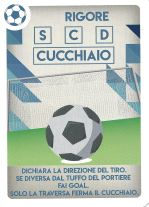
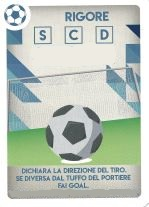
commenti e carte modificate

Changed region(s): [[0.2148, 0.2029, 0.7785, 0.3188], [0.0537, 0.8986, 0.9128, 0.9565]]

diff --git a/Progetto_GiocoDiCarte/src/classi/Partita.java b/Progetto_GiocoDiCarte/src/classi/Partita.java
@@ -96,71 +96,88 @@ public class Partita extends Gara
 	{
 		//il difensore pesca una carta (una carta viene pescata indipendemente se subisce goal oppure no)
 		dif.getMano().add(this.carte.pesca());
+		//il numero di carte pescate sarà sempre almeno una
 		cartePescate = 1;
-		//se la carta giocata è l'attaccante
+		
+		//se il giocatore offensivo ha giocato l'attaccante, il difensore potrà difendersi con il difensore e con il difensore roccia
 		if(cartaAtt.equals(Carta.ATTACCANTE)) 
 		{
-			
+			//se il giocatore difendente non ha giocato il difensore o il difensore roccia
 			if(!(cartaDif.equals(Carta.DIFENSORE) || cartaDif.equals(Carta.DIFENSORE_ROCCIA)))
 			{
+				//aggiungo un goal all'attaccante
 				att.aggiungiGoal();
 			}
 			else 
 			{
+				//il difensore pesca un'altra carta in quanto non ha subito goal
 				dif.getMano().add(this.carte.pesca());
+				//il numero di carte pescate viene incrementato a 2
 				cartePescate++;
 			}
 		}
 		else 
 		{
-			//bomber vero
+			//se il giocatore offensivo ha giocato il bomber vero, il difensore potrà difendersi solamente con il difensore roccia
 			if(cartaAtt.equals(Carta.BOMBER_VERO)) 
 			{
+				//se il giocatore difendente non ha giocato il difensore roccia
 				if(!cartaDif.equals(Carta.DIFENSORE_ROCCIA)) 
 				{
+					//aggiungo un goal all'attaccante
 					att.aggiungiGoal();
 				}
 				else 
 				{
+					//il difensore pesca un'altra carta in quanto non ha subito goal
 					dif.getMano().add(this.carte.pesca());
+					//il numero di carte pescate viene incrementato a 2
 					cartePescate++;
 				}
 			}
 			else 
 			{
-				//rovesciata dell'anno e tiro della domenica
+				//se il giocatore offensivo ha giocato la rovesciata dell'anno o il tiro della domenica farà goal sicuramente perchè sono carte non difendibili
 				if(cartaAtt.equals(Carta.ROVESCIATA_DELLANNO) || cartaAtt.equals(Carta.TIRO_DOMENICA))
 				{
+					//aggiungo un goal all'attaccante
 					att.aggiungiGoal();
 				}
 				else 
 				{
-					//goal
+					//se il giocatore offensivo ha giocato il goal, il difensore potrà difendersi con il var e con il fuorigioco
 					if(cartaAtt.equals(Carta.GOAL)) 
 					{
+						//se il giocatore difendente non ha giocato il var o il fuorigioco
 						if(!(cartaDif.equals(Carta.VAR) || cartaDif.equals(Carta.FUORIGIOCO))) 
 						{
+							//aggiungo un goal all'attaccante
 							att.aggiungiGoal();
 						}
 						else 
 						{
+							//il difensore pesca un'altra carta in quanto non ha subito goal
 							dif.getMano().add(this.carte.pesca());
+							//il numero di carte pescate viene incrementato a 2
 							cartePescate++;
 						}
 					}
 					else 
 					{
+						//se il giocatore offensivo ha giocato la carta mister, il difensore non si difenderà e l'attaccante pescherà due carte
 						if(cartaAtt.equals(Carta.MISTER)) 
 						{
+							//aggiungo due carte alla mano dell'attaccante e il numero di carte pescate passa a 2
 							att.getMano().add(this.carte.pesca());
 							att.getMano().add(this.carte.pesca());
 							cartePescate = 2;
 						}
 						else 
 						{
-							//caso del rigore
+							//se il giocatore difensivo non ha giocato il portiere (l'attaccante ha giocato la carta rigore per esclusione)
 							if(!cartaDif.equals(Carta.PORTIERE)) 
 							{
+								//aggiungo un goal all'attaccante
 								att.aggiungiGoal();
 							}
 						}
@@ -177,8 +194,10 @@ public class Partita extends Gara
 		{
 			//controllo se c'è almeno una carta di attacco nella mano dell'attaccante
 			if(c.getTipologia().equals(Tipologia.ATTACCO) || c.equals(Carta.GOAL) || c.equals(Carta.MISTER))
+			{				
 				//c'è almeno una carta, ritorna "true" perchè il turno offensivo si può giocare
 				return true;
+			}
 		}
 		//non c'è nessuna carta di attacco, ritorna "false" perchè l'attaccante non può attaccare
 		return false;
@@ -199,8 +218,10 @@ public class Partita extends Gara
 			{
 				//controllo se c'è almeno una carta di difesa nella mano del difensore
 				if(c.getTipologia().equals(Tipologia.DIFESA) || c.equals(Carta.VAR) || c.equals(Carta.FUORIGIOCO))
+				{
 					//c'è almeno una carta, ritorna "true" perchè il turno difensivo si può giocare
 					return true;
+				}
 			}
 			//non c'è nessuna carta di difesa, ritorna "false" perchè il difensore non si puà difendere
 			return false;
@@ -210,14 +231,19 @@ public class Partita extends Gara
 	//metodo che permette di salvare il turno di default appena viene creata una partita
 	public void salvaTurno(String partitaTorneo) throws IOException
 	{
+		//salvo il turno all'interno della cartella della partita
 		String currentDirectory = System.getProperty("user.dir");
 		String relativePath = "src/"+partitaTorneo+"/"+this.codice+"/turno.txt";
 		String absolutePath = currentDirectory + File.separator + relativePath;
+		//creo l'oggetto "PrintWriter" con il percorso assoluto
 		PrintWriter pw = new PrintWriter(absolutePath);
+		//salvo di default che il primo turno sarà un turno di attacco con le posizioni del primo giocatore (attaccante) e del secondo giocatore (difensivo)
 		pw.println("a");
 		pw.println(0);
 		pw.println(1);
+		//numero di carte pescate per il salvataggio nella label
 		pw.println(1);
+		//chiudo il file di testo in scrittura
 		pw.close();
 	}
 

diff --git a/Progetto_GiocoDiCarte/src/application/FormIniziaPartitaController.java b/Progetto_GiocoDiCarte/src/application/FormIniziaPartitaController.java
@@ -98,18 +98,18 @@ public class FormIniziaPartitaController implements Initializable
 				//mi chiedo se i giocatori sono maggiori o uguali a 2 per riempire le prime due label
 				if(giocatori.size() >= 2)
 				{
-					lblNomeGiocatore1.setText(p.getGiocatori()[0].isRobot() ? p.getGiocatori()[0].getAlias(): p.getGiocatori()[0].getAlias()+"*");
-					lblNomeGiocatore2.setText(p.getGiocatori()[1].isRobot() ? p.getGiocatori()[1].getAlias(): p.getGiocatori()[1].getAlias()+"*");
+					lblNomeGiocatore1.setText(p.getGiocatori()[0].isRobot() ? p.getGiocatori()[0].getAlias()+ "*" : p.getGiocatori()[0].getAlias());
+					lblNomeGiocatore2.setText(p.getGiocatori()[1].isRobot() ? p.getGiocatori()[1].getAlias()+ "*" : p.getGiocatori()[1].getAlias());
 				}
 				//mi chiedo se i giocatori sono maggiori o uguali a 3 per riempire anche la terza label
 				if(giocatori.size() >= 3)
 				{
-					lblNomeGiocatore3.setText(p.getGiocatori()[2].isRobot() ? p.getGiocatori()[2].getAlias(): p.getGiocatori()[2].getAlias()+"*");
+					lblNomeGiocatore3.setText(p.getGiocatori()[2].isRobot() ? p.getGiocatori()[2].getAlias()+ "*" : p.getGiocatori()[2].getAlias());
 				}
 				//mi chiedo se i giocatori sono uguali a 4 (massimo numero giocatori per una partita) per riempire anche la quarta label
 				if(giocatori.size() == 4)
 				{
-					lblNomeGiocatore4.setText(p.getGiocatori()[3].isRobot() ? p.getGiocatori()[3].getAlias(): p.getGiocatori()[3].getAlias()+"*");
+					lblNomeGiocatore4.setText(p.getGiocatori()[3].isRobot() ? p.getGiocatori()[3].getAlias()+ "*" : p.getGiocatori()[3].getAlias());
 				}	
 				
 				//Thread per creare l'animazione della progressBar
